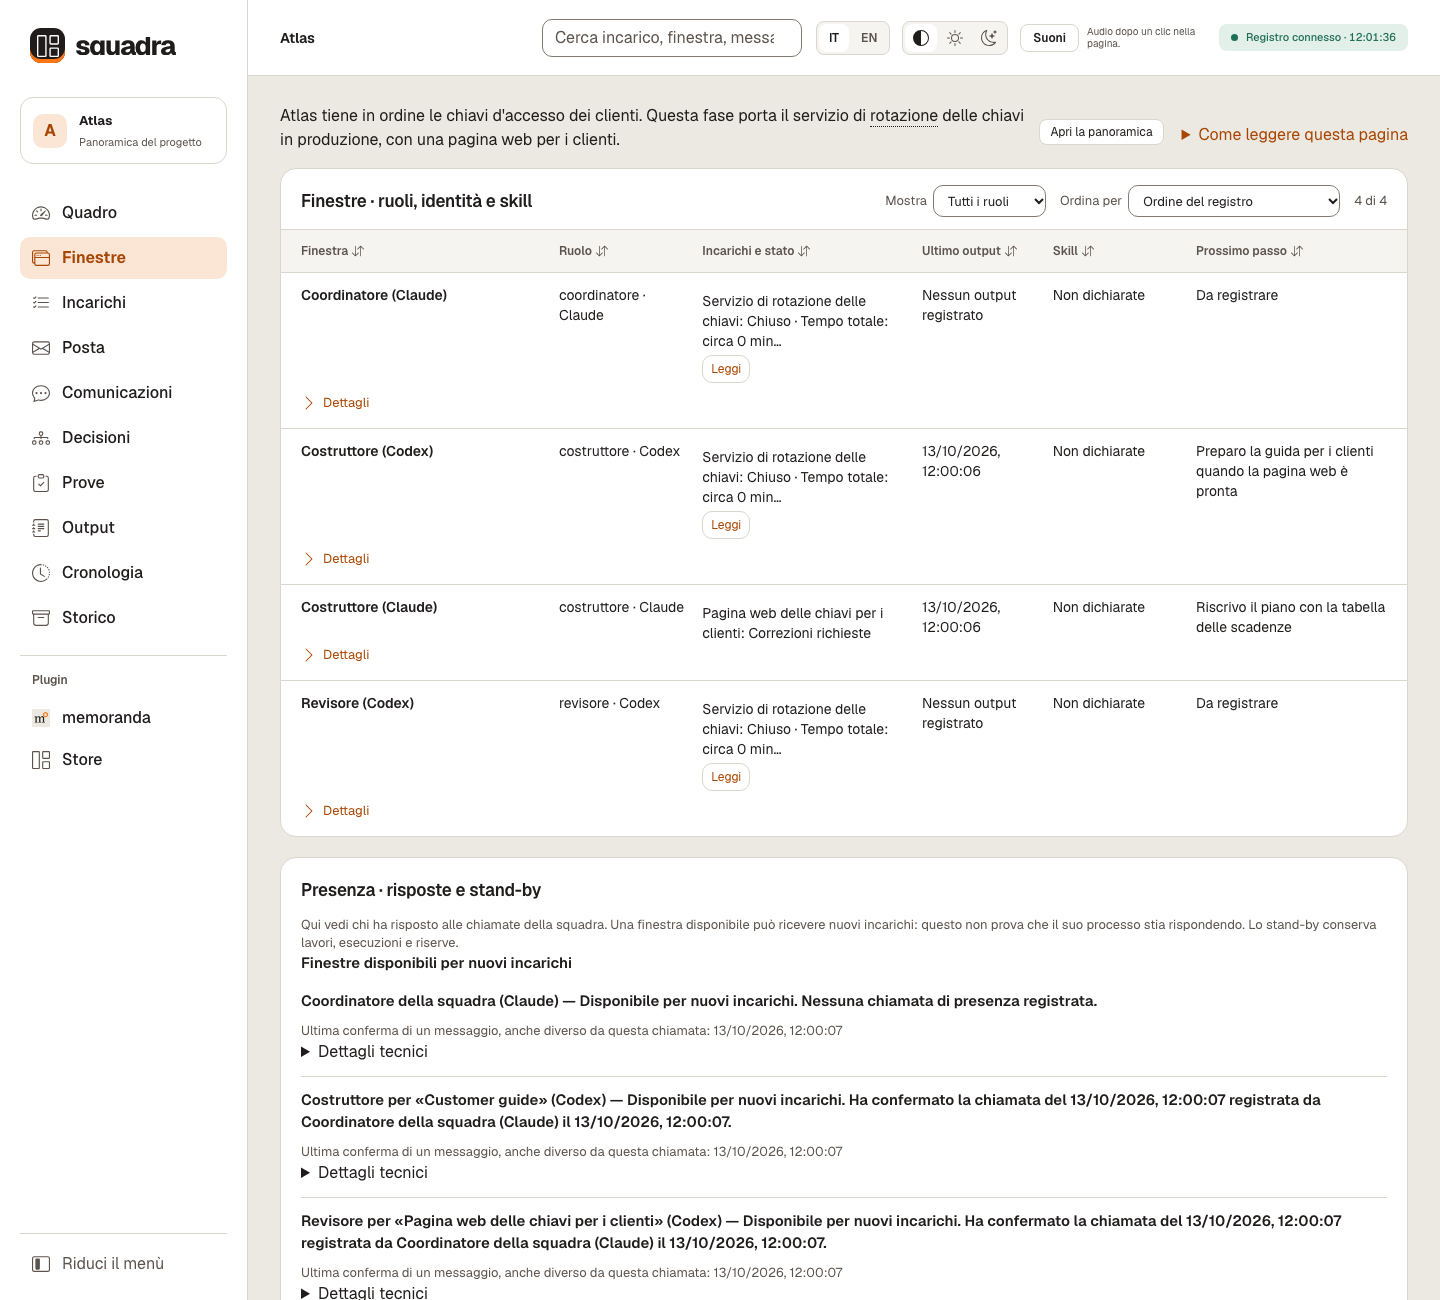
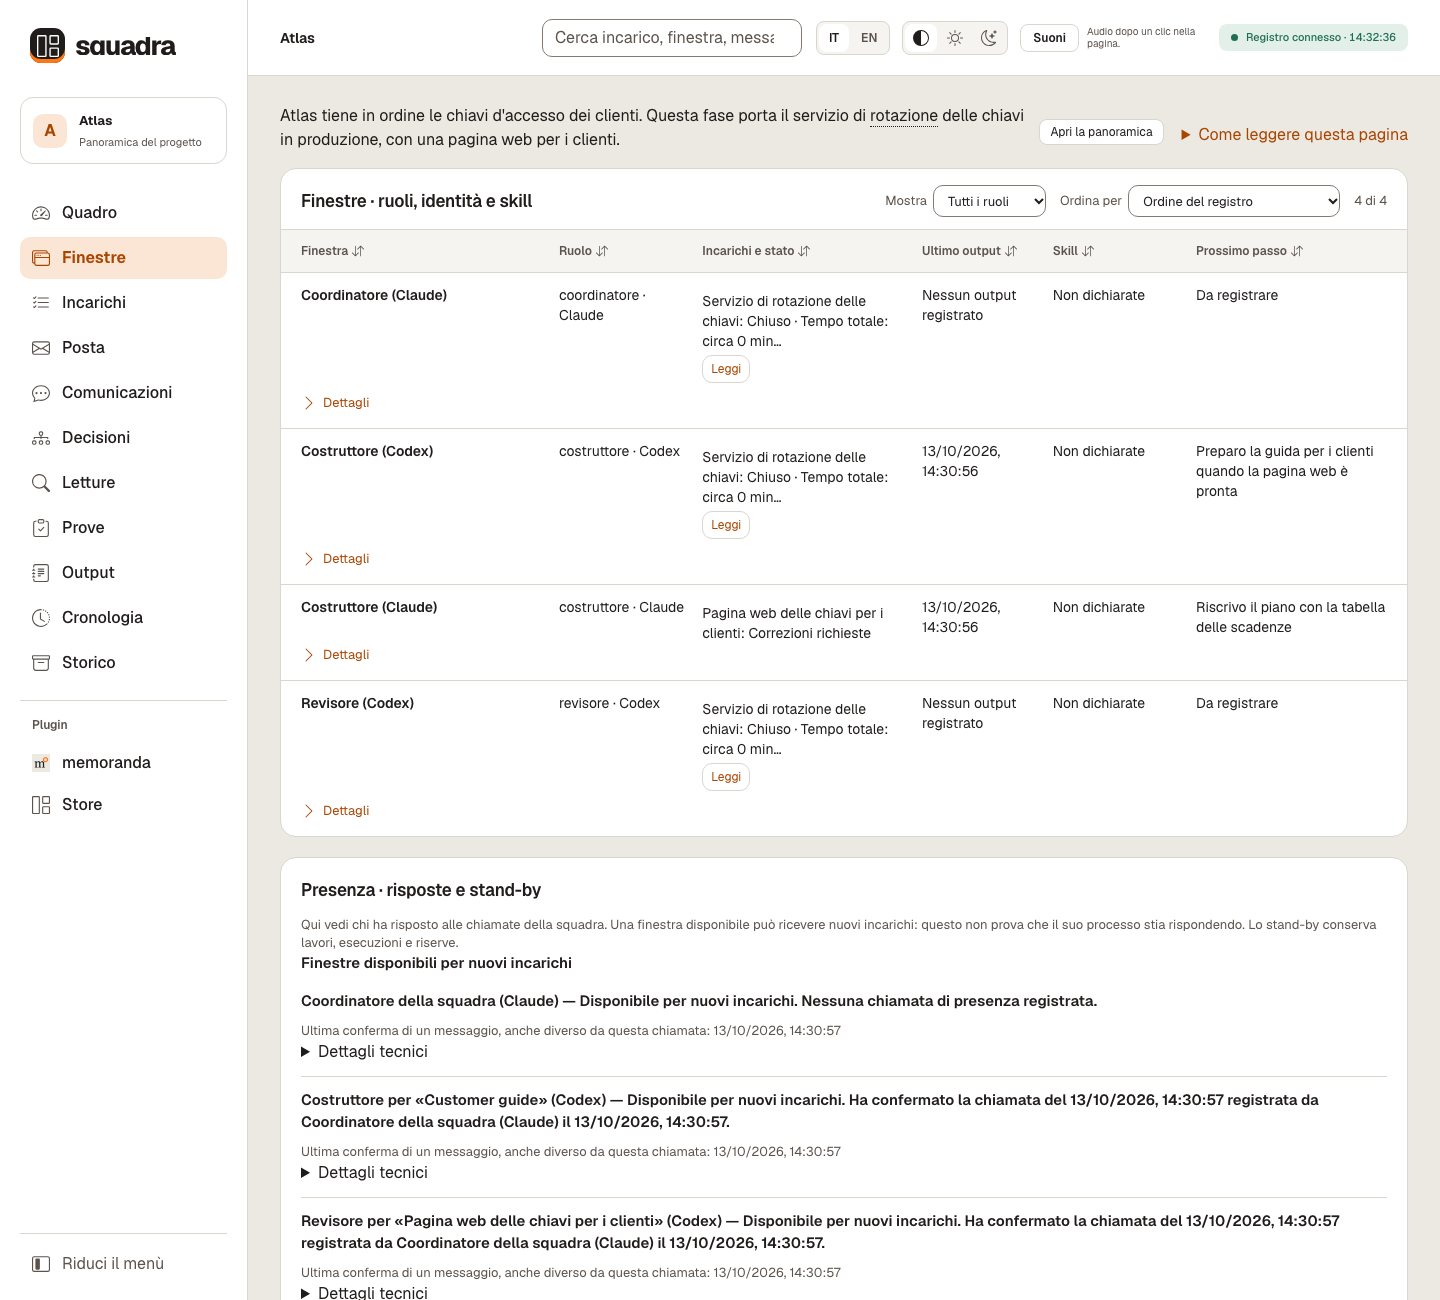
README screenshots for 3.7.0, with the Reads view
Taken from 98869d8 by the release capture (97/97 checks): the memoranda
plugin is installed through the Store as users receive it, and the Reads
view appears in both languages.

diff --git a/README.md b/README.md
@@ -317,6 +317,8 @@ entry links to its report and task story. These are counts of reads and later
 versions, not a count of prevented defects or successful fixes; repeated reads
 and observations remain separate records. Closed and replaced tasks stay included.
 
+![The Reads view: recorded verdicts in total and by task, with the observations readers supplied](docs/images/dashboard-reads-en.png)
+
 Readers may supply `review --findings-file findings.json` with bounded observations
 (`severity`: `grave`, `minor` or `info`; a safe one-line `title`). See
 [the review command](references/work.md). Missing observations say **Not recorded**;
@@ -431,6 +433,7 @@ Every screenshot exists in both languages:
 | Communications | [EN](docs/images/dashboard-comms-en.png) | [IT](docs/images/dashboard-comms-it.png) |
 | Communications, one pair | [EN](docs/images/dashboard-comms-pair-en.png) | [IT](docs/images/dashboard-comms-pair-it.png) |
 | Decisions | [EN](docs/images/dashboard-decisions-en.png) | [IT](docs/images/dashboard-decisions-it.png) |
+| Reads | [EN](docs/images/dashboard-reads-en.png) | [IT](docs/images/dashboard-reads-it.png) |
 | Plugin page | [EN](docs/images/dashboard-plugins-en.png) | [IT](docs/images/dashboard-plugins-it.png) |
 | Plugin settings | [EN](docs/images/dashboard-plugin-settings-en.png) | [IT](docs/images/dashboard-plugin-settings-it.png) |
 | Plugin memories | [EN](docs/images/dashboard-plugin-memories-en.png) | [IT](docs/images/dashboard-plugin-memories-it.png) |

diff --git a/README.it.md b/README.it.md
@@ -320,6 +320,8 @@ versioni successive, non di difetti evitati o correzioni riuscite; letture e
 osservazioni ripetute restano registrazioni distinte. Sono inclusi anche gli
 incarichi chiusi o sostituiti.
 
+![La vista Letture: i verdetti registrati in totale e per incarico, con le osservazioni fornite dai lettori](docs/images/dashboard-reads-it.png)
+
 Il lettore può aggiungere `review --findings-file findings.json` con osservazioni
 limitate (`severity`: `grave`, `minor` o `info`; `title`: una riga senza contenuti
 privati). Vedi [il comando di lettura](references/work.md). I dati assenti sono
@@ -435,6 +437,7 @@ Ogni schermata esiste in entrambe le lingue:
 | Comunicazioni | [EN](docs/images/dashboard-comms-en.png) | [IT](docs/images/dashboard-comms-it.png) |
 | Comunicazioni, una coppia | [EN](docs/images/dashboard-comms-pair-en.png) | [IT](docs/images/dashboard-comms-pair-it.png) |
 | Decisioni | [EN](docs/images/dashboard-decisions-en.png) | [IT](docs/images/dashboard-decisions-it.png) |
+| Letture | [EN](docs/images/dashboard-reads-en.png) | [IT](docs/images/dashboard-reads-it.png) |
 | Pagina di un plugin | [EN](docs/images/dashboard-plugins-en.png) | [IT](docs/images/dashboard-plugins-it.png) |
 | Impostazioni di un plugin | [EN](docs/images/dashboard-plugin-settings-en.png) | [IT](docs/images/dashboard-plugin-settings-it.png) |
 | Memorie di un plugin | [EN](docs/images/dashboard-plugin-memories-en.png) | [IT](docs/images/dashboard-plugin-memories-it.png) |
